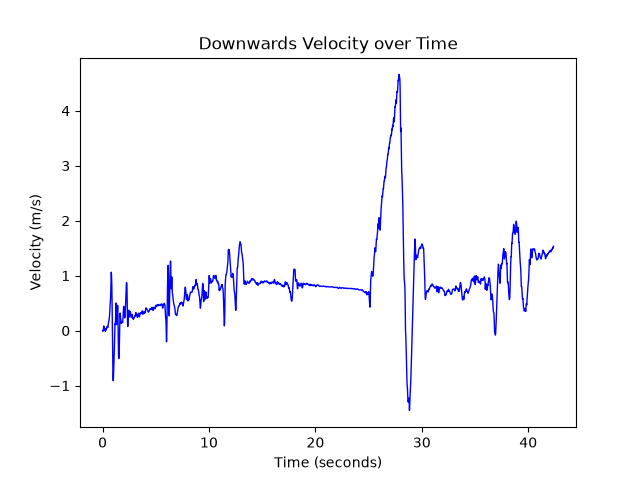
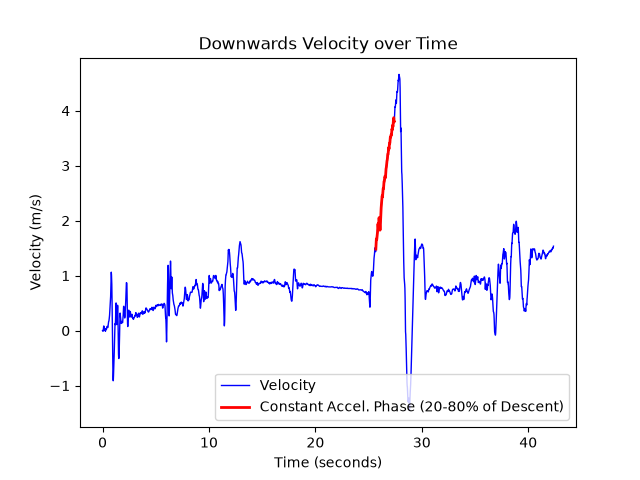
Label phase selected for calculations

Changed region(s): [[0.3438, 0.7812, 0.9062, 0.875], [0.5625, 0.25, 0.625, 0.5312]]

diff --git a/src/main.py b/src/main.py
@@ -49,7 +49,24 @@ def integrate():
 
 def graph(vt):
     velocity, time = vt
+    peak = np.argmax(velocity)
+    baseline = np.median(velocity[(peak - 350):(peak - 250)])
+    slope = velocity[peak] - baseline
+
+    low = baseline + slope * 0.2
+    high = baseline + slope * 0.8
+
+    i_lo, i_hi = 0, 0
+
+    for i in range(peak):
+        if velocity[i] <= low:
+            i_lo = i
+        if velocity[i] <= high:
+            i_hi = i
+
     plt.plot(time, velocity, label="Velocity", color="blue", linewidth=1)
+    plt.plot(time[i_lo:i_hi], velocity[i_lo:i_hi], label="Constant Accel. Phase (20-80% of Descent)", color="red", linewidth=2)
+    plt.legend()
     plt.xlabel("Time (seconds)")
     plt.ylabel("Velocity (m/s)")
     plt.title("Downwards Velocity over Time")
@@ -90,5 +107,5 @@ if __name__ == '__main__':
             RUN = j
             ACCEL = pd.read_csv(PATH + "data/Obj-" + OBJECT + "-Runs/" + str(RUN) + "/Accelerometer.csv", index_col='time')
             ORIENT = pd.read_csv(PATH + "data/Obj-" + OBJECT + "-Runs/" + str(RUN) + "/Orientation.csv", index_col='time')
-            print(i + str(j) + " " + str(find_slope_midsect(integrate()))) # Calculates acceleraton over ideal period
-            # graph(integrate()) # Graphs velocity
+            # print(i + str(j) + " " + str(find_slope_midsect(integrate()))) # Calculates acceleraton over ideal period
+            graph(integrate()) # Graphs velocity
